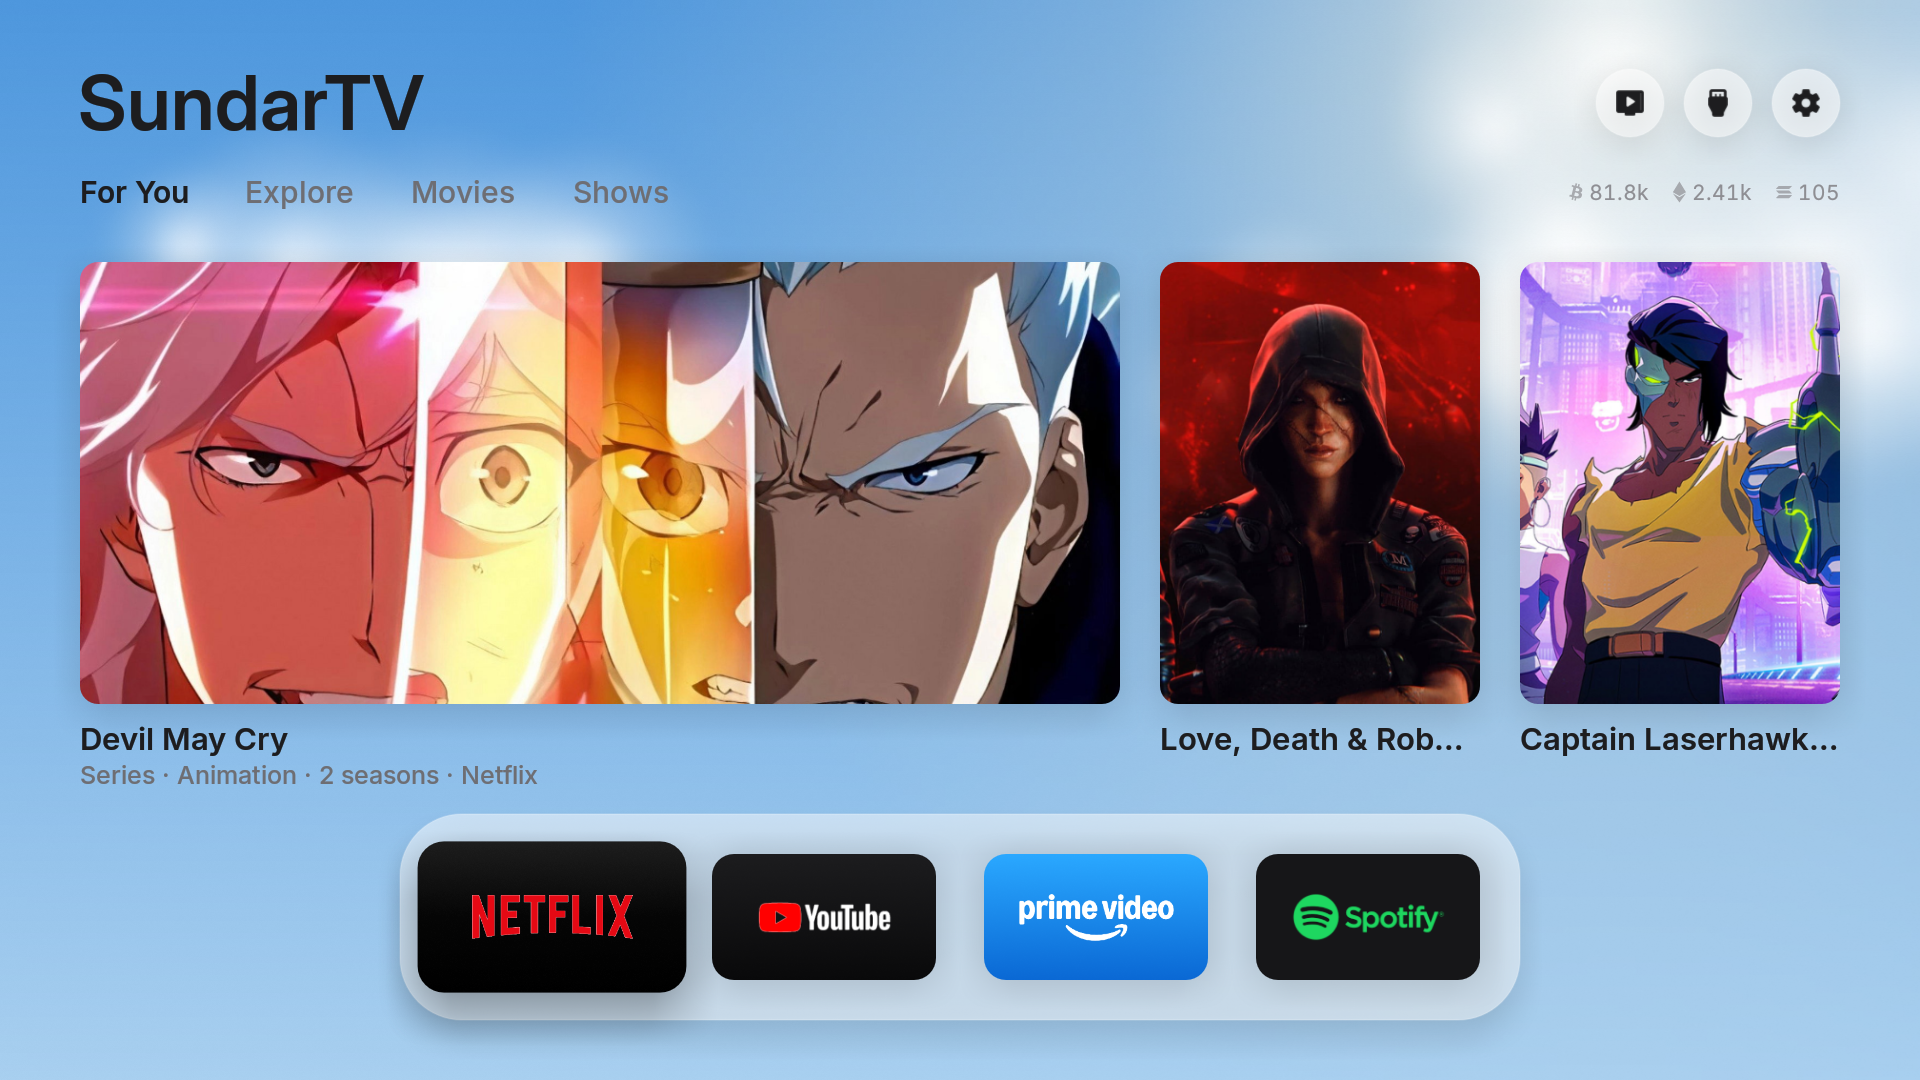
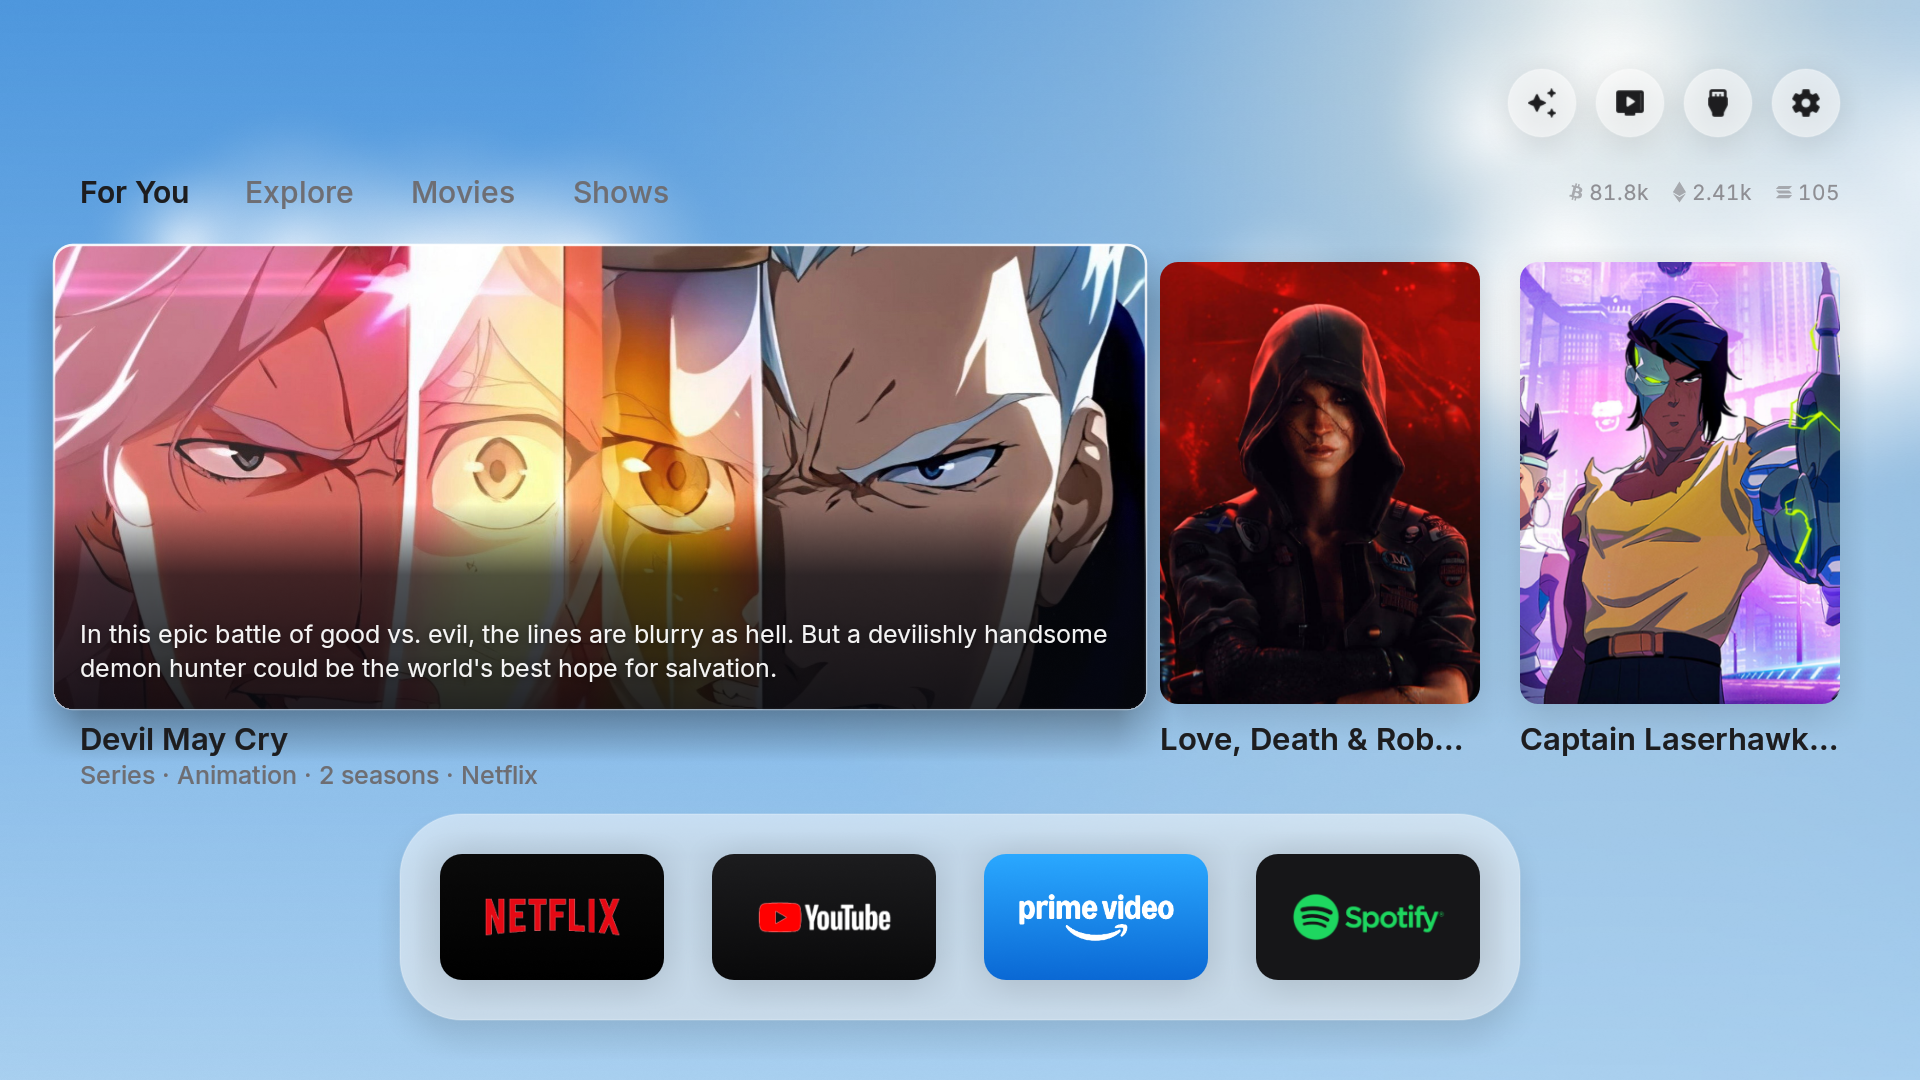
Recommendations on their own page; home stays the clock and the weather
A For You button (top right, only with a TMDB key) opens the page with the
four tabs; Back returns to the home screen, which is always the clock and
the weather over the sky, and coming back from an app opens there too. No
title above the tabs.

Changed region(s): [[0.0, 0.2139, 0.625, 0.7028], [0.1875, 0.7639, 0.375, 0.9472], [0.0312, 0.0611, 0.2188, 0.1222]]

diff --git a/app/src/main/java/io/sundartv/HomeView.java b/app/src/main/java/io/sundartv/HomeView.java
@@ -146,6 +146,7 @@ final class HomeView extends ViewGroup implements Choreographer.FrameCallback, H
     // Everything the tab can show (up to Recs.MORE): the three cards are a window on it that slides past either end.
     private List<Recs.Pick> allCards = new ArrayList<>();
     private int cardOffset;
+    private boolean picksPage;      // the recommendations page is open (see picksOn)
     // Held on a card for a moment, its synopsis rises over the picture: since when it's held, and how far it's up.
     private static final long EXPAND_MS = 1500;
     private long cardFocusAt;
@@ -445,6 +446,11 @@ final class HomeView extends ViewGroup implements Choreographer.FrameCallback, H
         checkNotices();
         if (!again) reload();
         updatePalette();
+        // Coming back (from an app, or with Home) opens on the clock, not on the recommendations page.
+        if (picksPage) {
+            picksPage = false;
+            if (zone == Z_CARDS) zone = Z_SHELF;
+        }
         updatePicks();
         if (sheetOpen) closeSheet();
         sheet.snap(sheet.target);
@@ -2112,6 +2118,8 @@ final class HomeView extends ViewGroup implements Choreographer.FrameCallback, H
         } else if (zone == Z_DRAWER || zone == WIDGETS) {
             closeDrawer();
             retarget(false);
+        } else if (picksPage) {
+            closePicks();
         } else if (zone != Z_SHELF) {
             zone = Z_SHELF;
             retarget(false);
@@ -2271,6 +2279,11 @@ final class HomeView extends ViewGroup implements Choreographer.FrameCallback, H
                 return;
             }
             it = lightButtons.get(topIndex - TABS);
+            if (it.kind == HomeApps.PICKS) {
+                click.open();
+                openPicks();
+                return;
+            }
             r = topRects[topIndex];
         } else if (zone == Z_CARDS) {
             Recs.Pick p = cardIndex < cards.size() ? cards.get(cardIndex) : null;
@@ -2791,7 +2804,7 @@ final class HomeView extends ViewGroup implements Choreographer.FrameCallback, H
      * cardOffset. The background is taken from the first card.
      */
     private void updateCards() {
-        List<Recs.Pick> list = tab == FOR_YOU ? recs.forYou() : recs.all(TAB_KIND[tab]);
+        List<Recs.Pick> list = !picksOn() ? new ArrayList<>() : tab == FOR_YOU ? recs.forYou() : recs.all(TAB_KIND[tab]);
         if (!samePicks(list, allCards)) allCards = list;
         cardOffset = Math.max(0, Math.min(cardOffset, list.size() - 3));
         List<Recs.Pick> window = new ArrayList<>(list.subList(cardOffset, Math.min(cardOffset + 3, list.size())));
@@ -2894,8 +2907,7 @@ final class HomeView extends ViewGroup implements Choreographer.FrameCallback, H
             if (HomeData.coinCount() > 0) drawQuotes(c);
             return;
         }
-        String hello = "SundarTV";    // the page; For You is now the first tab
-        c.drawText(hello, MARGIN * k - Ui.leftBearing(lTitle, hello), L_TITLE_BASE * k, lTitle);
+        // The recommendations page: no title above the tabs (the tabs say what it is).
         // Text tabs (the selected one in bold, in the main text color); with focus on the tabs, the selected one gets
         // the white pill with a shadow and grows a little (the tvOS focus).
         float focus = Ui.clamp(topFocus[tab].value);
@@ -2927,8 +2939,35 @@ final class HomeView extends ViewGroup implements Choreographer.FrameCallback, H
         if (HomeData.coinCount() > 0) drawQuotes(c);
     }
 
+    /**
+     * The recommendations page is open (the For You button; Back closes it). The home screen itself is always the
+     * clock and the weather over the sky, as without a TMDB key.
+     */
     private boolean picksOn() {
-        return Recs.hasKey(getContext());
+        return picksPage && Recs.hasKey(getContext());
+    }
+
+    private void openPicks() {
+        picksPage = true;
+        tab = FOR_YOU;
+        cardOffset = 0;
+        cardIndex = 0;
+        updateCards();
+        zone = cards.isEmpty() ? Z_TOP : Z_CARDS;
+        topIndex = tab;
+        cardFocusAt = SystemClock.uptimeMillis();
+        heroDirty = statusDirty = true;
+        invalidateAll();
+        retarget(false);
+    }
+
+    private void closePicks() {
+        picksPage = false;
+        updateCards();      // no cards: the sky comes back
+        zone = Z_SHELF;
+        heroDirty = statusDirty = true;
+        invalidateAll();
+        retarget(false);
     }
 
     private void drawClock(Canvas c) {

diff --git a/app/src/main/java/io/sundartv/HomeApps.java b/app/src/main/java/io/sundartv/HomeApps.java
@@ -57,6 +57,8 @@ final class HomeApps {
     static final int APP = 0, LIVE_TV = 1, INPUT = 2, ALL_APPS = 3, SETTINGS = 4, ANDROID_SETTINGS = 5;
     /** The "HDMI Inputs" button: opens the bottom drawer on the inputs (the home screen handles it). */
     static final int INPUTS = 7;
+    /** The For You button: opens the recommendations page (the home screen handles it; only with a TMDB key). */
+    static final int PICKS = 8;
     /** Image size of each card (16:9; on screen it shows up to ~330 px wide). */
     static final int TILE_W = 384, TILE_H = 216;
 
@@ -187,8 +189,9 @@ final class HomeApps {
 
     // MARK: - Top buttons (the round ones at the top right)
 
-    static final String TOP_LIVE = "live", TOP_INPUTS = "inputs", TOP_SETTINGS = "settings";
-    static final List<String> TOP_DEFAULT = Collections.unmodifiableList(java.util.Arrays.asList(TOP_LIVE, TOP_INPUTS, TOP_SETTINGS));
+    static final String TOP_PICKS = "picks", TOP_LIVE = "live", TOP_INPUTS = "inputs", TOP_SETTINGS = "settings";
+    static final List<String> TOP_DEFAULT =
+            Collections.unmodifiableList(java.util.Arrays.asList(TOP_PICKS, TOP_LIVE, TOP_INPUTS, TOP_SETTINGS));
     static final int MAX_TOP = TOP_DEFAULT.size();
 
     /** The keys of the top buttons, in order (Settings > Top Buttons; by default Live TV, HDMI Inputs, Settings). */
@@ -200,15 +203,19 @@ final class HomeApps {
         return keys;
     }
 
-    /** The top buttons, ready to draw (0 to 3 of them). */
+    /** The top buttons, ready to draw (0 to 4 of them; For You only with a TMDB key). */
     static List<Item> topButtons() {
         List<Item> items = new ArrayList<>();
-        for (String key : topButtonKeys()) items.add(topButton(key));
+        for (String key : topButtonKeys()) {
+            if (key.equals(TOP_PICKS) && Config.TMDB_KEY.trim().isEmpty()) continue;
+            items.add(topButton(key));
+        }
         return items;
     }
 
     private static Item topButton(String key) {
         switch (key) {
+            case TOP_PICKS: return action(PICKS, TOP_PICKS, Ui.tr("For You"), "sparkles");
             case TOP_LIVE: return action(LIVE_TV, TOP_LIVE, Ui.tr("light|Live TV"), "live_tv");
             case TOP_INPUTS: return action(INPUTS, TOP_INPUTS, Ui.tr("HDMI Inputs"), "hdmi");
             default: return action(SETTINGS, TOP_SETTINGS, Ui.tr("light|Settings"), "settings");

diff --git a/README.md b/README.md
@@ -53,8 +53,10 @@ Keep `sundartv.keystore`: updates must be signed with the same key.
 
 ## Trending picks (TMDB)
 
-With a free TMDB key, the home screen adds movies and shows, only from streaming apps your TV already has, in four
-tabs: **For You**, Explore, Movies and Shows, with fresh picks every hour. Each card shows the genre,
+With a free TMDB key, a **For You** button joins the round buttons at the top right of the home screen. It opens a
+recommendations page: movies and shows, only from streaming apps your TV already has, in four tabs (For You, Explore,
+Movies, Shows), with fresh picks every hour. **Back** returns to the home screen, which always stays the clock and the
+weather over the sky. Each card shows the genre,
 runtime (or seasons) and the app it's on.
 
 - **More than three:** keep pressing right past the third card and more titles slide in (up to 12 per tab).
@@ -76,7 +78,7 @@ Streaming apps don't share what you watch, so For You uses what the TV itself ca
 
 For You always sits on the live weather sky.
 
-![For You after opening Cyberpunk: Edgerunners](docs/screenshots/for-you.png)
+![The recommendations page, For You tab](docs/screenshots/for-you.png)
 
 **Get a key** (free, two minutes): create an account at [themoviedb.org](https://www.themoviedb.org), open
 Settings → API and request a developer key. Paste the **API Key** (or the API Read Access Token) after `tmdb_key=`
@@ -87,7 +89,7 @@ GitHub.
 
 | Setting | Options |
 | --- | --- |
-| Background | *Weather sky* (the default) or *Movie art* (the first pick's image), for Explore, Movies and Shows |
+| Background | *Weather sky* (the default) or *Movie art* (the first pick's image), on the recommendations page |
 | Screensaver | *Quotes* (the default) or *Movie photos* (a slideshow of the picks) |
 
 | Picks over the weather sky | Home Settings |
